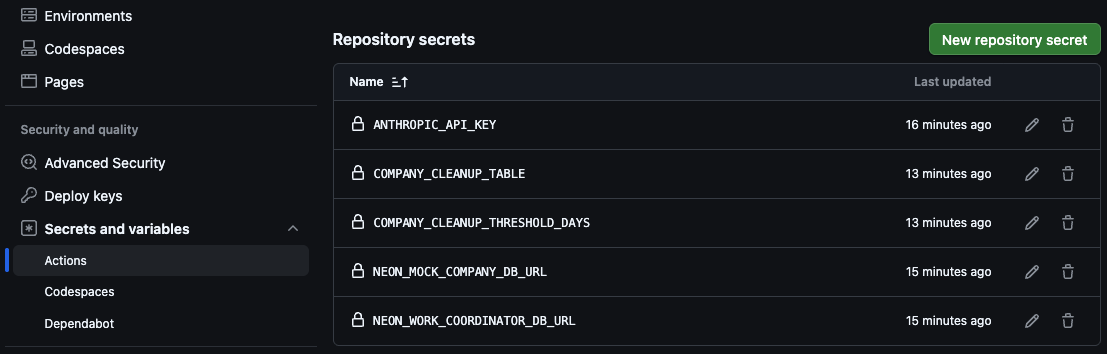
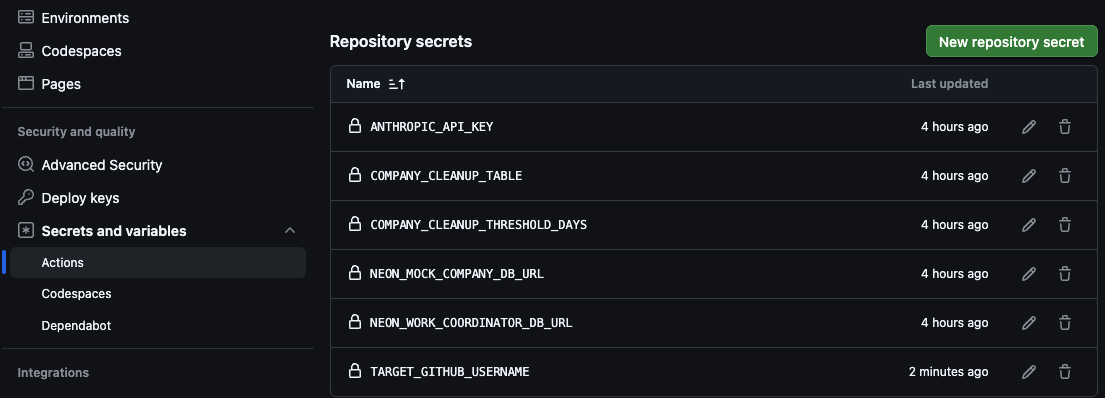
feat(T8): Add daily KPI report workflow + update README

diff --git a/src/tools/manual-kpi.tool.ts b/src/tools/manual-kpi.tool.ts
@@ -14,6 +14,42 @@ function promptUser(question: string): Promise<string> {
   })
 }
 
+// Read activities from env var (GitHub Actions) or fall back to interactive readline (local terminal)
+async function collectActivities(): Promise<string[]> {
+  const now = new Date().toISOString()
+
+  // CI mode: MANUAL_ACTIVITIES is set via workflow_dispatch input
+  if (process.env.MANUAL_ACTIVITIES) {
+    const activities = process.env.MANUAL_ACTIVITIES.split(',')
+      .map((a) => a.trim())
+      .filter((a) => a.length > 0)
+
+    console.log(`\n📝 Activities received from GitHub Actions input (${activities.length}) on ${now}:`)
+    activities.forEach((a) => console.log(`  - ${a}`))
+
+    return activities
+  }
+
+  // Local mode: interactive readline prompt
+  console.log('\n──────────────────────────────────────────')
+  console.log('📝 Anything else you did today?')
+  console.log('📝 (Enter each activity on a new line)')
+  console.log('📝 Type "done" when finished.\n')
+
+  const activities: string[] = []
+
+  while (true) {
+    const input = await promptUser('  > ')
+
+    if (input.toLowerCase() === 'done' || input === '') break
+    if (input.length > 0) activities.push(input)
+  }
+
+  console.log('──────────────────────────────────────────\n')
+
+  return activities
+}
+
 export const manualKpiTool = new DynamicStructuredTool({
   name: 'collect_manual_kpi_input',
   description:
@@ -21,22 +57,8 @@ export const manualKpiTool = new DynamicStructuredTool({
   schema: z.object({}),
   func: async () => {
     const now = new Date().toISOString()
+    const activities = await collectActivities()
 
-    console.log('\n──────────────────────────────────────────')
-    console.log('📝 Anything else you did today?')
-    console.log('📝 (Enter each activity on a new line)')
-    console.log('📝 Type "done" when finished.\n')
-
-    const activities: string[] = []
-
-    while (true) {
-      const input = await promptUser('  > ')
-
-      if (input.toLowerCase() === 'done' || input === '') break
-      if (input.length > 0) activities.push(input)
-    }
-
-    console.log('──────────────────────────────────────────\n')
     console.log(`✅ Recorded ${activities.length} manual activities`)
 
     return JSON.stringify({ activities, created_at: now, updated_at: now })

diff --git a/src/agent/index.ts b/src/agent/index.ts
@@ -21,7 +21,7 @@ export async function runCleanup(): Promise<void> {
 // ── Interactive (manual) — requires human at keyboard ─────────────────────────
 export async function runDailyJobs(): Promise<void> {
   const today = new Date().toISOString().split('T')[0]
-  const username = process.env.GITHUB_USERNAME
+  const username = process.env.TARGET_GITHUB_USERNAME
   const now = new Date().toISOString()
 
   sectionLogger(`🤖 Oh my workers — ${today}`)
